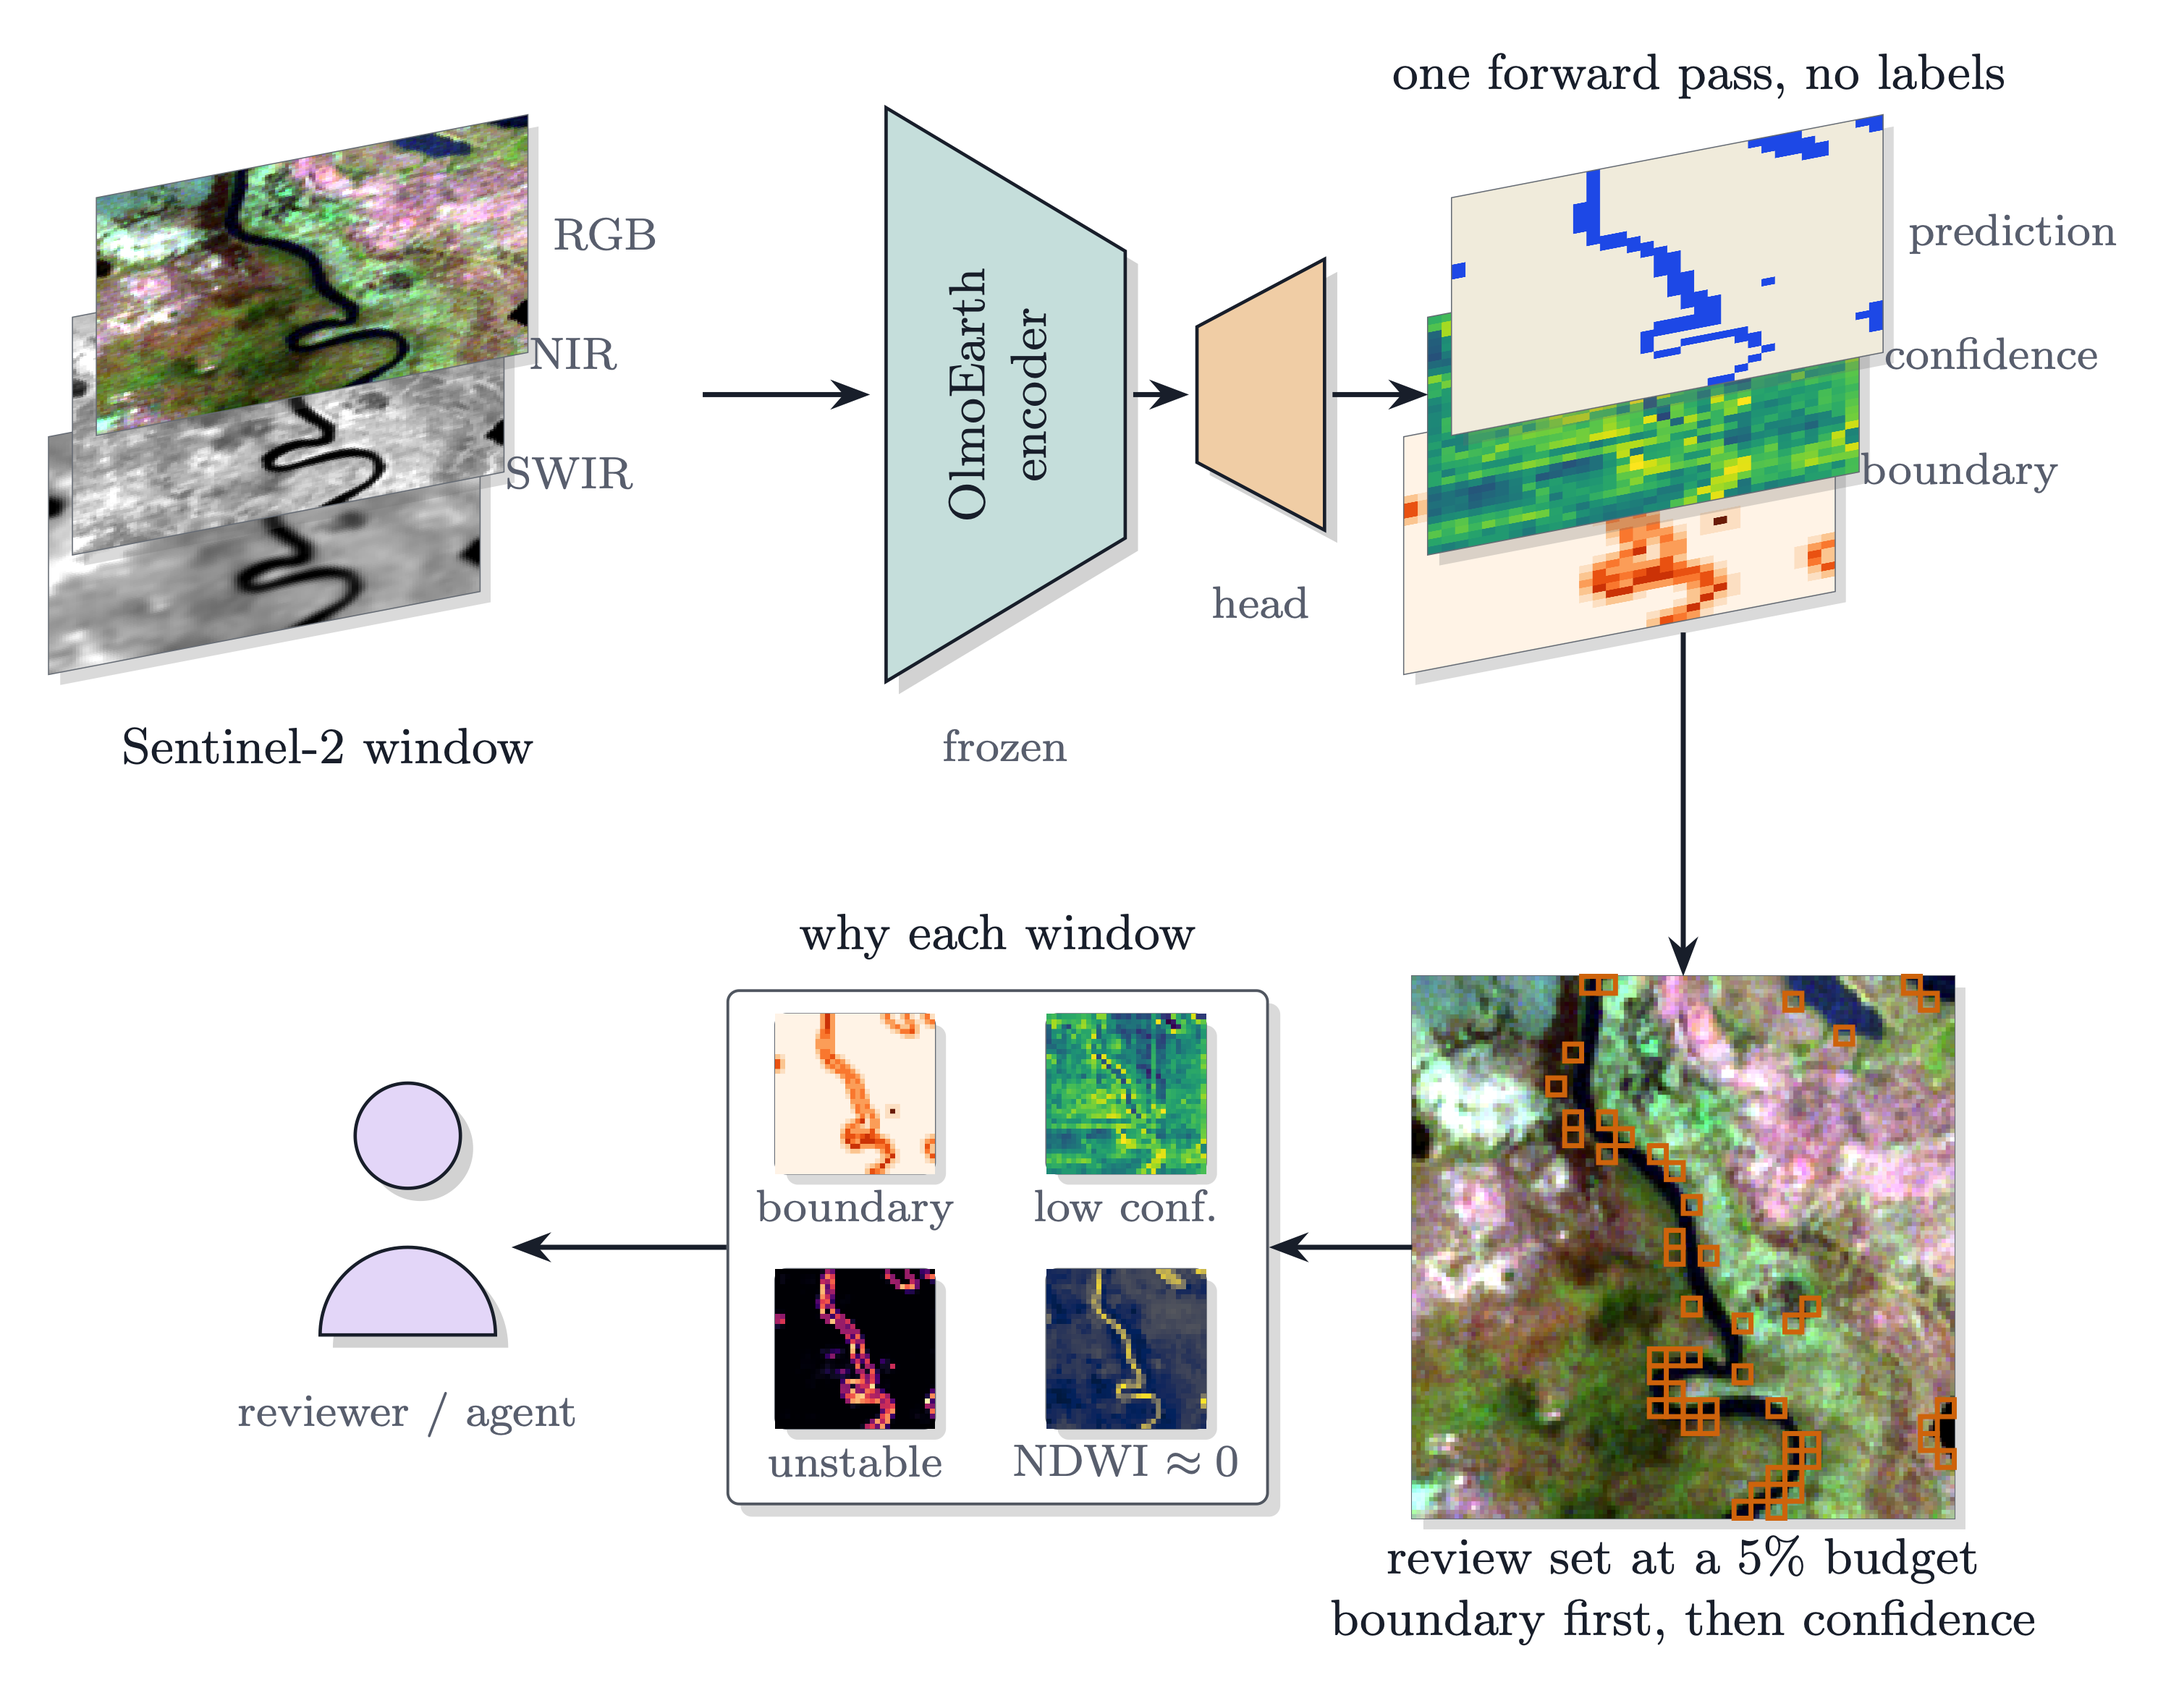
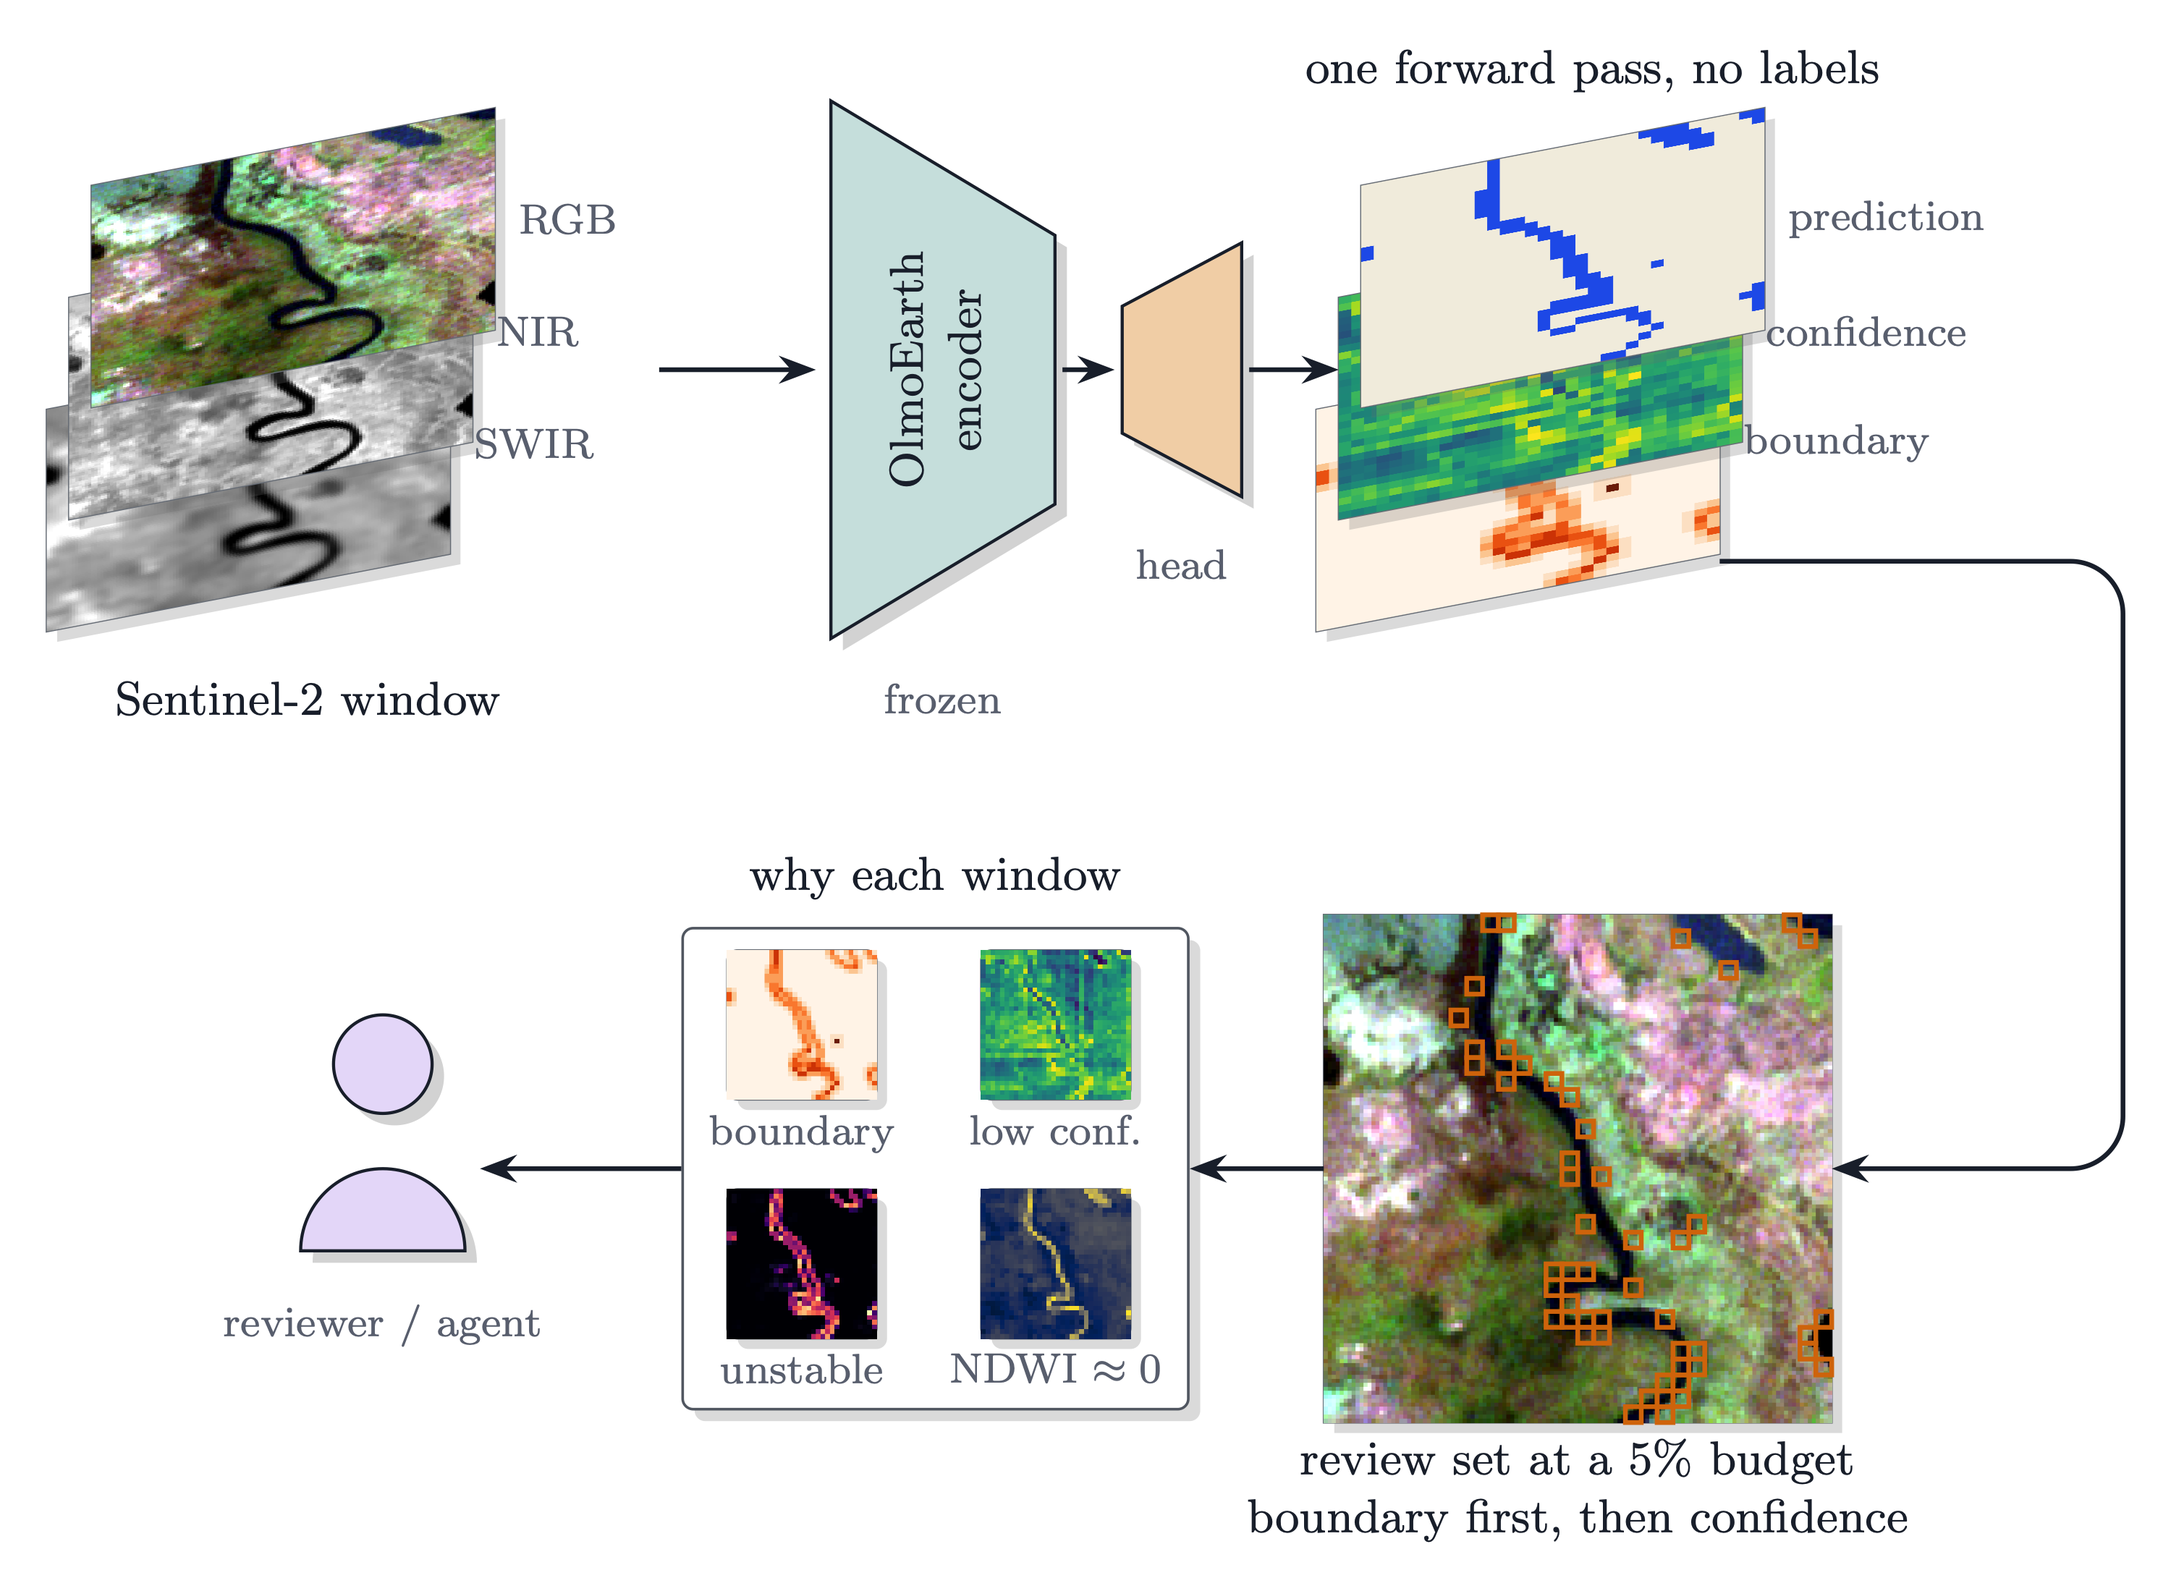
pipeline diagram: rounded loop from the layer stack into the review set's right side, replacing the straight drop

diff --git a/docs/figures/tikz/audit_pipeline.tex b/docs/figures/tikz/audit_pipeline.tex
@@ -34,7 +34,8 @@
   \flatraster{rev}{8.9}{0.4}{scene_rgb.png}{3.4cm}
   \flatcells{rev}{32}{cell}{\sceneReview}{3.4cm}
   \node[lab] at (8.9,-1.75) {review set at a 5\% budget\\ boundary first, then confidence};
-  \draw[flow] (rev.north |- outback.south) -- (rev.north);   % vertical drop, x of the review set, y of the stack's bottom
+  % rounded loop: out of the lower right of the stack, past the layer labels, down, and into the review set from the right
+  \draw[flow, rounded corners=10pt] ($(outback.south east)+(0,-0.05)$) -| (12.55,0.4) -- (rev.east);
   \node[card] (why) at (4.6,0.4) {%
     \begin{tikzpicture}[font=\footnotesize]
       \node[flat] (c1) at (0,0)      {\includegraphics[width=1.0cm]{rasters/scene_boundary.png}};
